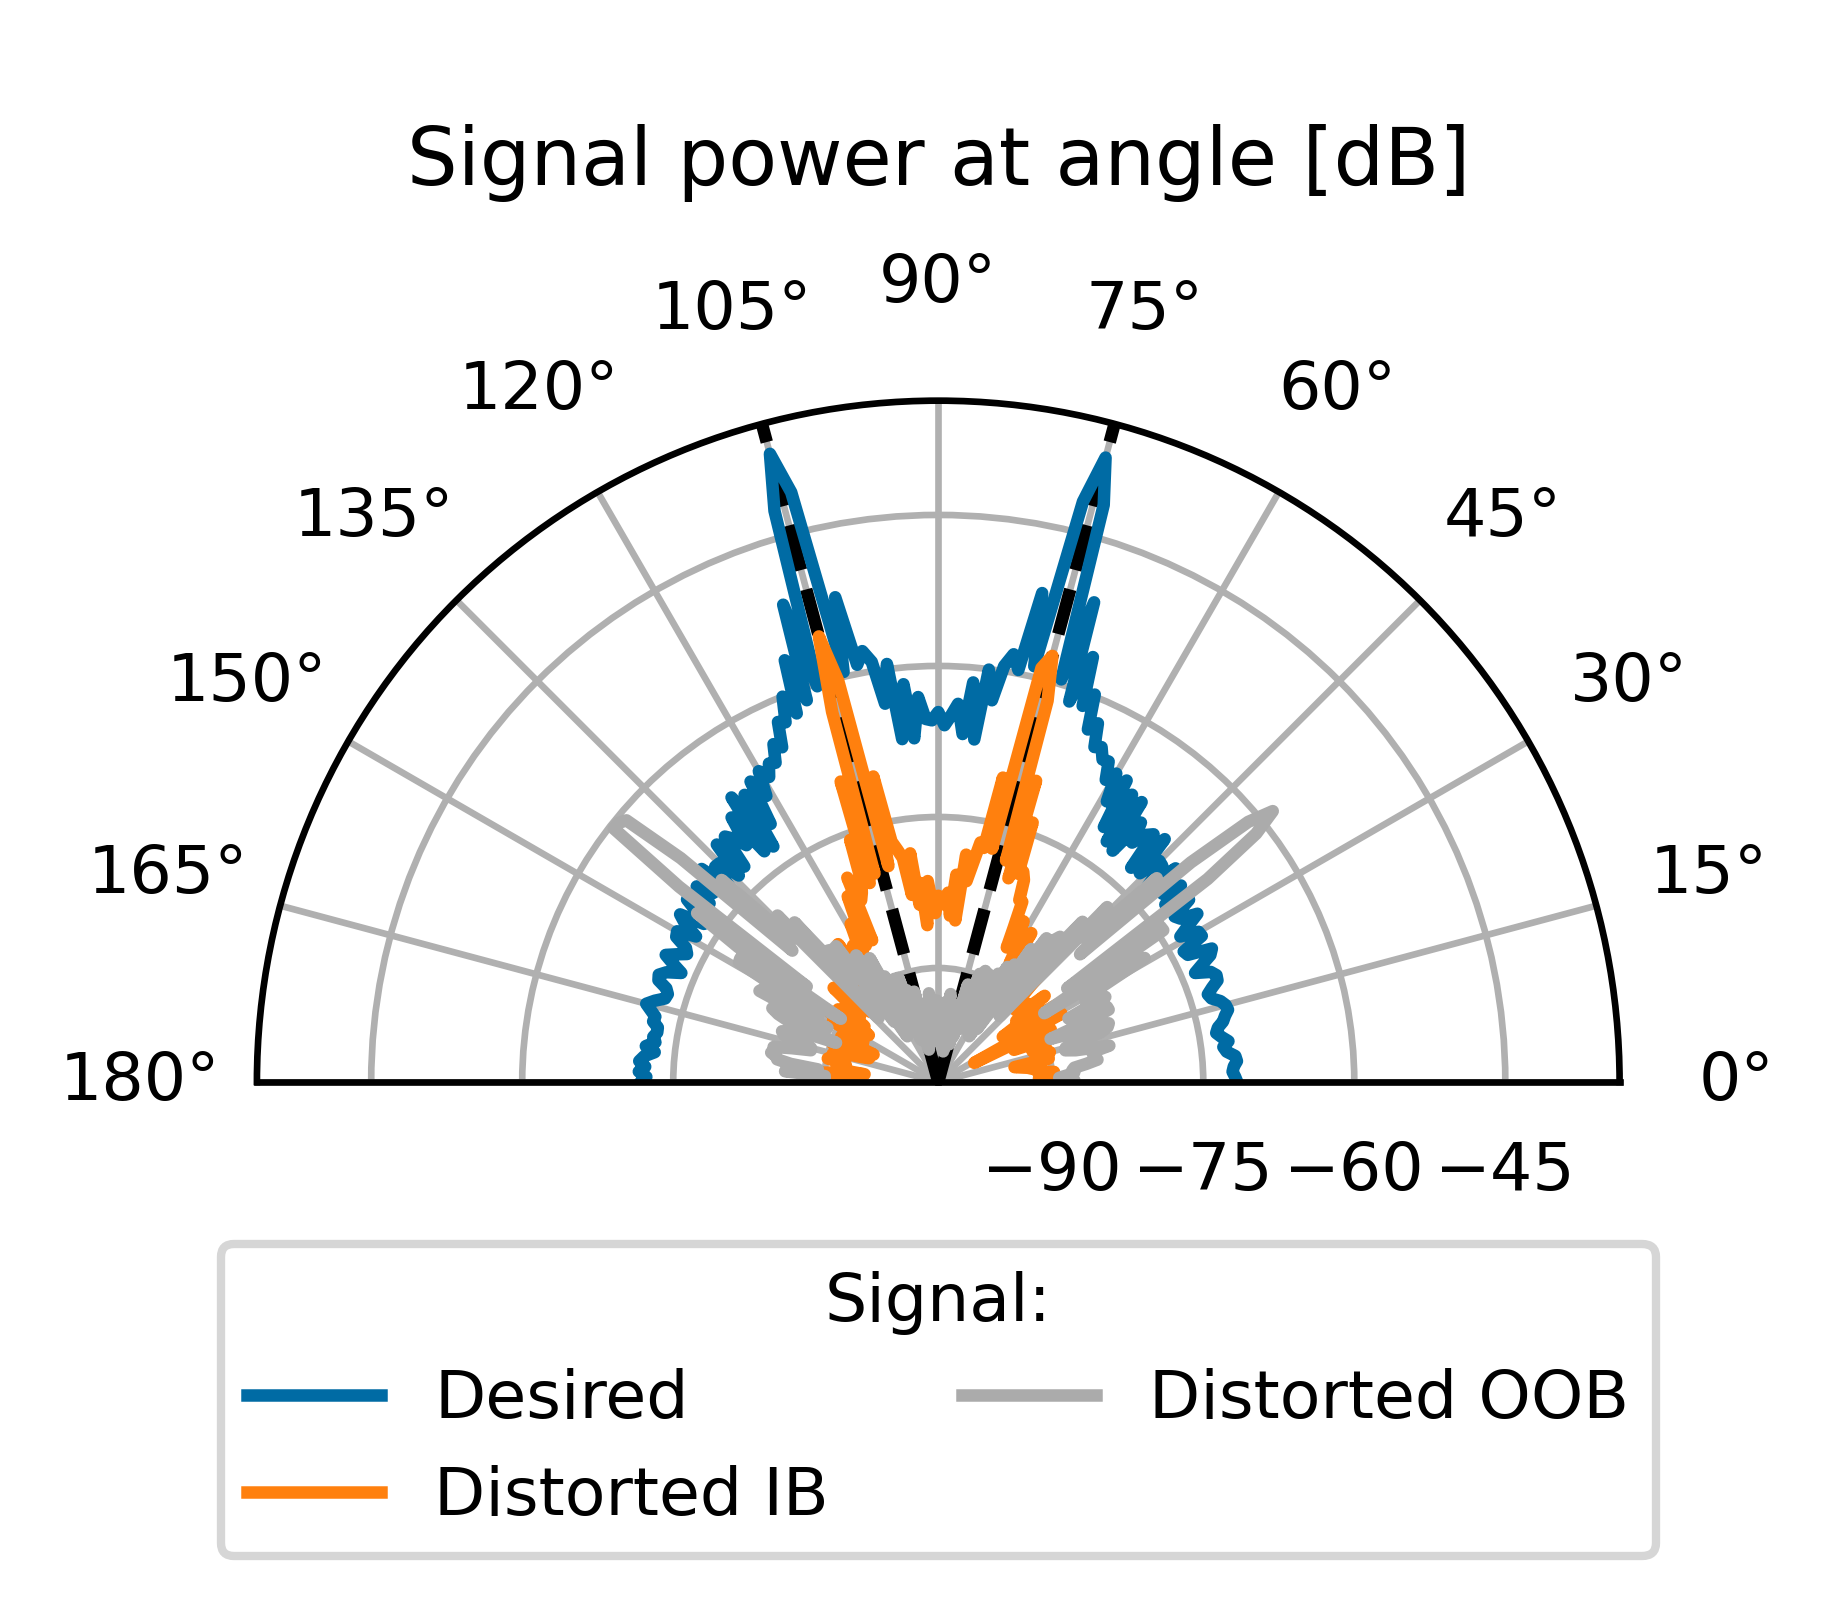
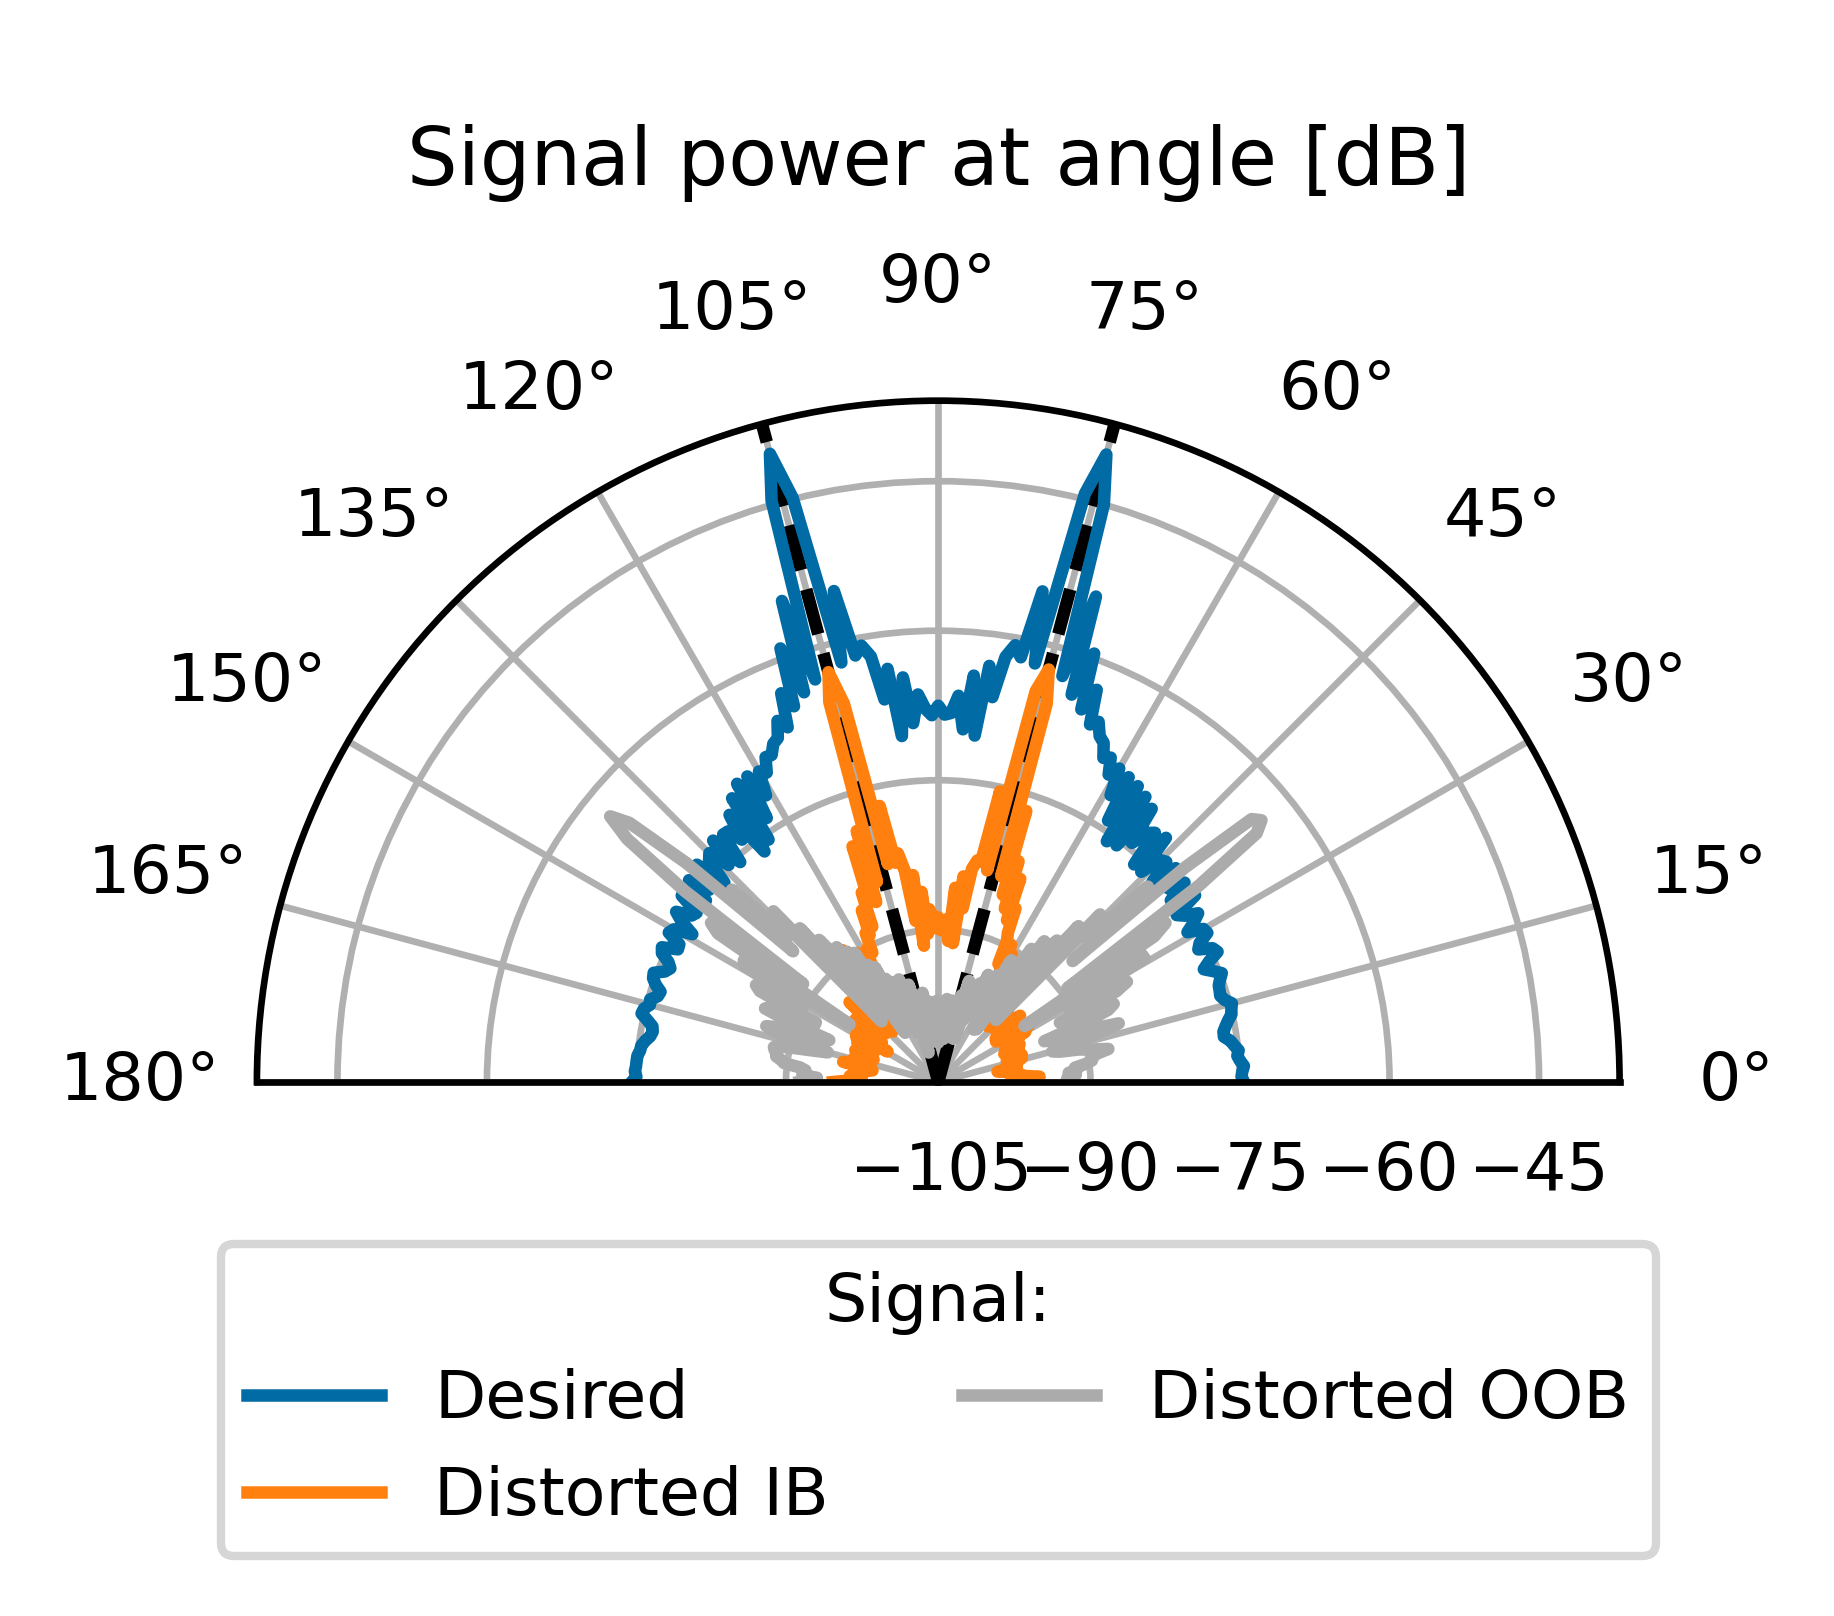
upload some beampattern debug results

diff --git a/main_multiuser/main_separate_sc_per_usr_psd_and_beampatterns.py b/main_multiuser/main_separate_sc_per_usr_psd_and_beampatterns.py
@@ -28,7 +28,7 @@ from plot_settings import set_latex_plot_style
 if __name__ == '__main__':
     set_latex_plot_style()
     # Multiple users data
-    usr_angles = np.array([75, 105])
+    usr_angles = np.array([90, 60])
     usr_distances = [300, 300]
     usr_pos_tup = []
     for usr_idx, usr_angle in enumerate(usr_angles):
@@ -81,14 +81,14 @@ if __name__ == '__main__':
 
     # PSD at angle
     plot_psd = True
-    sel_psd_angle = 120
+    sel_psd_angle = 141
     sel_ptx_idx = int(n_points / 180 * sel_psd_angle)
     # PSD plotting params
     psd_nfft = 1024
     n_samp_per_seg = 256
 
     my_mod = modulation.OfdmQamModem(constel_size=constel_size, n_fft=n_fft, n_sub_carr=n_sub_carr, cp_len=cp_len,
-                                     n_users=len(usr_angles))
+                                     n_users=1)
 
     my_distortion = distortion.ThirdOrderNonLin(toi_db=ibo_arr[0], avg_samp_pow=my_mod.avg_sample_power)
     # my_distortion = distortion.SoftLimiter(ibo_db=ibo_arr[0], avg_samp_pow=my_mod.avg_sample_power)
@@ -182,10 +182,6 @@ if __name__ == '__main__':
                 my_cnc_rx.update_distortion(ibo_db=ibo_val_db)
 
                 usr_chan_mat_lst = []
-
-                my_mod = modulation.OfdmQamModem(constel_size=constel_size, n_fft=n_fft, n_sub_carr=n_sub_carr,
-                                                 cp_len=cp_len,
-                                                 n_users=1)
                 for usr_idx, usr_pos_tuple_val in enumerate(usr_pos_tup):
                     usr_pos_x, usr_pos_y = usr_pos_tuple_val
                     my_standard_rx.set_position(cord_x=usr_pos_x, cord_y=usr_pos_y, cord_z=1.5)
@@ -202,7 +198,7 @@ if __name__ == '__main__':
                 my_array.update_distortion(ibo_db=ibo_val_db, avg_sample_pow=my_mod.avg_sample_power)
 
                 vk_mat = my_array.get_precoding_mat()
-                vk_pow_vec = np.sum(np.sum(np.power(np.abs(vk_mat), 2), axis=2), axis=1)
+                vk_pow_vec = np.sum(np.power(np.abs(vk_mat), 2), axis=1)
 
                 if estimate_alpha:
                     ak_vect = alpha_vec_est
@@ -317,7 +313,7 @@ if __name__ == '__main__':
                         distortion_oob_sig_pow_arr = np.zeros(beampattern_n_snapshots)
                         for snap_idx in range(beampattern_n_snapshots):
                             tx_bits = np.squeeze(
-                                bit_rng.choice((0, 1), (n_users, my_tx.modem.n_bits_per_ofdm_sym)))
+                                bit_rng.choice((0, 1), (1, my_tx.modem.n_bits_per_ofdm_sym)))
                             arr_tx_sig_fd, clean_sig_mat_fd = my_array.transmit(in_bits=tx_bits,
                                                                                 out_domain_fd=True,
                                                                                 return_both=True)
@@ -447,13 +443,12 @@ if __name__ == '__main__':
                     ax1.set_title("Signal power at angle [dB]", pad=-15)
                     ax1.legend(title="Signal:", ncol=2, loc='lower center', borderaxespad=-2)
                     ax1.grid(True)
-
-                    plt.savefig(
-                        "../figs/multiuser/distortion_directions_eval/multiuser_sep_sc_%s_%s_desired_and_distortion_signal_beampattern_ibo%d_angles%s_distances%s_npoints%d_nsnap%d_nant%s.png" % (
+                    beampattern_filename_str = "multiuser_sep_sc_%s_%s_desired_and_distortion_signal_beampattern_ibo%d_angles%s_distances%s_npoints%d_nsnap%d_nant%s" % (
                             my_distortion, my_miso_chan, ibo_val_db, '_'.join([str(val) for val in usr_angles]),
                             '_'.join([str(val) for val in usr_distances]), n_points, beampattern_n_snapshots,
-                            '_'.join([str(val) for val in [n_ant_val]])),
-                        dpi=600, bbox_inches='tight')
+                            '_'.join([str(val) for val in [n_ant_val]]))
+                    plt.savefig(
+                        "../figs/multiuser/distortion_directions_eval/%s.png" % beampattern_filename_str, dpi=600, bbox_inches='tight')
                     plt.show()
                     # plt.cla()
                     # plt.close()

diff --git a/main_multiuser/main_shared_sc_psd_and_beampatterns.py b/main_multiuser/main_shared_sc_psd_and_beampatterns.py
@@ -28,7 +28,7 @@ from plot_settings import set_latex_plot_style
 if __name__ == '__main__':
     set_latex_plot_style()
     # Multiple users data
-    usr_angles = np.array([75, 105])
+    usr_angles = np.array([90, 60])
     usr_distances = [300, 300]
     usr_pos_tup = []
     for usr_idx, usr_angle in enumerate(usr_angles):
@@ -81,7 +81,7 @@ if __name__ == '__main__':
 
     # PSD at angle
     plot_psd = True
-    sel_psd_angle = 120
+    sel_psd_angle = 141
     sel_ptx_idx = int(n_points / 180 * sel_psd_angle)
     # PSD plotting params
     psd_nfft = 1024
@@ -444,13 +444,11 @@ if __name__ == '__main__':
                     ax1.set_title("Signal power at angle [dB]", pad=-15)
                     ax1.legend(title="Signal:", ncol=2, loc='lower center', borderaxespad=-2)
                     ax1.grid(True)
-
-                    plt.savefig(
-                        "../figs/multiuser/distortion_directions_eval/multiuser_shared_sc_%s_%s_desired_and_distortion_signal_beampattern_ibo%d_angles%s_distances%s_npoints%d_nsnap%d_nant%s.png" % (
+                    beampattern_filename_str = "multiuser_shared_sc_%s_%s_desired_and_distortion_signal_beampattern_ibo%d_angles%s_distances%s_npoints%d_nsnap%d_nant%s" % (
                             my_distortion, my_miso_chan, ibo_val_db, '_'.join([str(val) for val in usr_angles]),
                             '_'.join([str(val) for val in usr_distances]), n_points, beampattern_n_snapshots,
-                            '_'.join([str(val) for val in [n_ant_val]])),
-                        dpi=600, bbox_inches='tight')
+                            '_'.join([str(val) for val in [n_ant_val]]))
+                    plt.savefig("../figs/multiuser/distortion_directions_eval/%s.png" %(beampattern_filename_str), dpi=600, bbox_inches='tight')
                     plt.show()
                     # plt.cla()
                     # plt.close()

diff --git a/modulation.py b/modulation.py
@@ -125,7 +125,6 @@ def _tx_ofdm_symbol(mod_symbols, n_fft: int, n_sub_carr: int, cp_length: int):
 
     ofdm_sym_freq[-(n_sub_carr // 2):] = mod_symbols[0:n_sub_carr // 2]
     ofdm_sym_freq[1:(n_sub_carr // 2) + 1] = mod_symbols[n_sub_carr // 2:]
-    tmp = (np.fft.fftfreq(n_fft))
 
     with objmode(ofdm_sym_time='complex128[:]'):
         ofdm_sym_time = torch.fft.ifft(torch.from_numpy(ofdm_sym_freq), norm="ortho").numpy()
